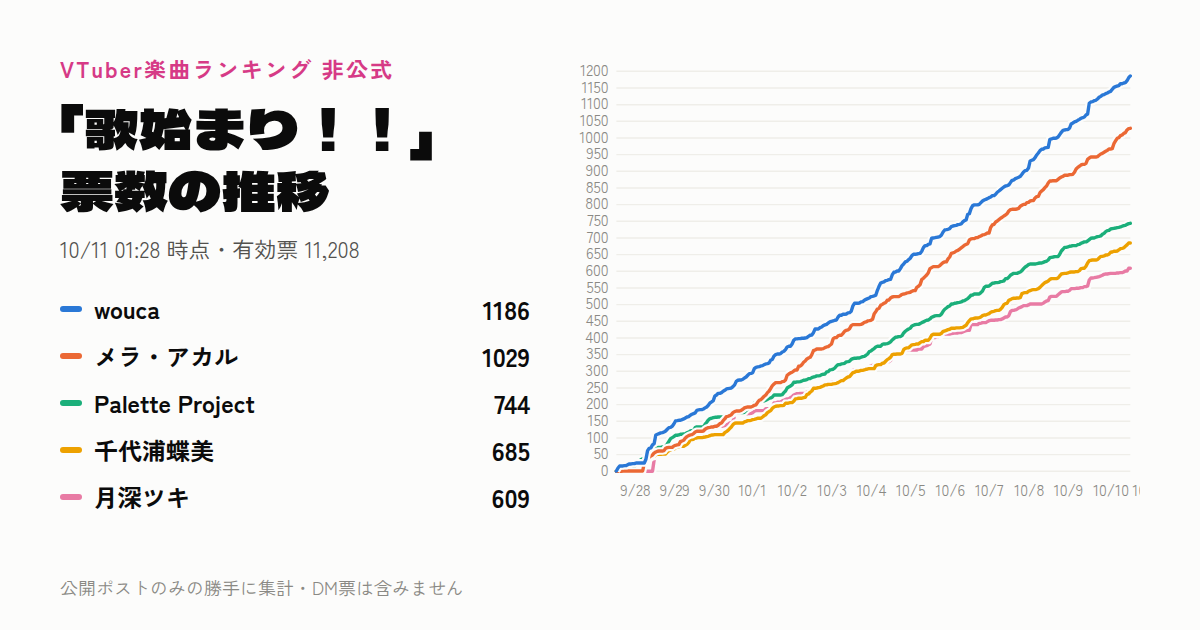
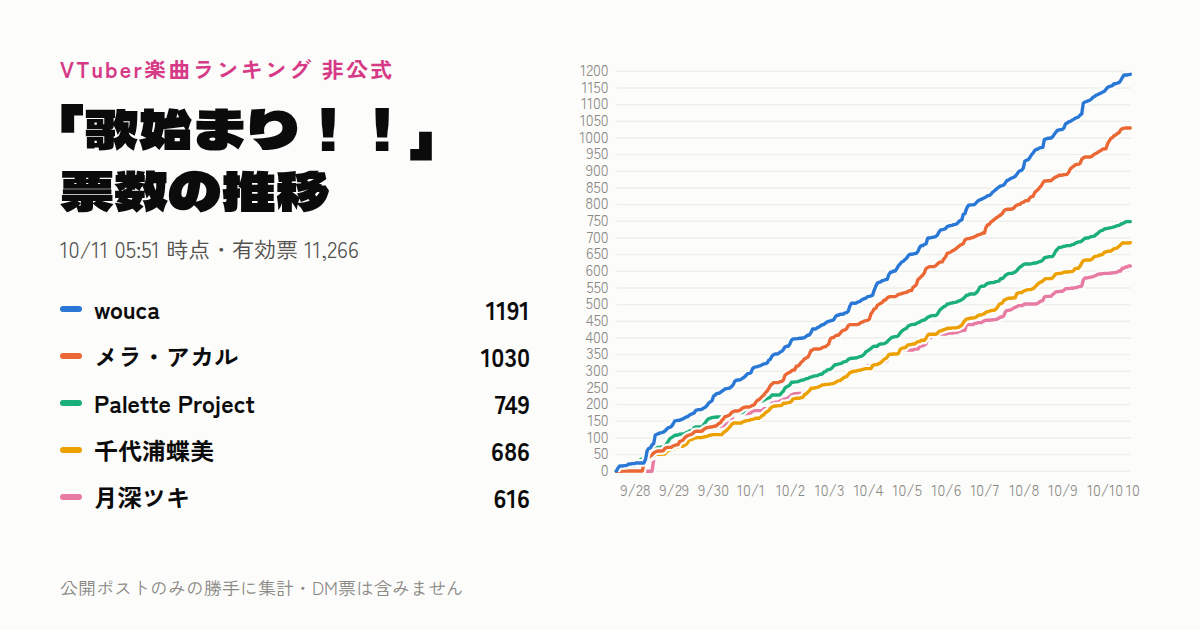
chore: 投票データと推移ページを自動更新

diff --git a/public/trend.html b/public/trend.html
@@ -4,10 +4,10 @@
 <meta name="viewport" content="width=device-width, initial-scale=1, viewport-fit=cover">
 <meta name="description" content="VTuber楽曲ランキング「歌始まり！！」の公開ポスト票を公式ルールで数えた非公式集計。上位曲の票数推移と日別票数。">
 <meta property="og:title" content="「歌始まり！！」票数の推移（非公式）">
-<meta property="og:image" content="https://mc-ranking-utahajimari.trapplejp.workers.dev/trend-og.png?v=10110128">
+<meta property="og:image" content="https://mc-ranking-utahajimari.trapplejp.workers.dev/trend-og.png?v=10110551">
 <meta property="og:url" content="https://mc-ranking-utahajimari.trapplejp.workers.dev/trend">
 <meta property="og:type" content="website">
-<meta property="og:description" content="10/11 01:28時点・公開ポストのみの勝手に集計。上位曲の票数推移と日別票数。">
+<meta property="og:description" content="10/11 05:51時点・公開ポストのみの勝手に集計。上位曲の票数推移と日別票数。">
 <meta name="twitter:card" content="summary_large_image">
 <style>body{margin:0}</style>
 <title>歌始まり 票数推移</title>
@@ -101,7 +101,7 @@ td .sw { display: inline-block; width: 10px; height: 3px; border-radius: 2px; ma
 </div>
 
 <script>
-const D = {"hours": ["2026-09-28T00:00", "2026-09-28T01:00", "2026-09-28T02:00", "2026-09-28T03:00", "2026-09-28T04:00", "2026-09-28T05:00", "2026-09-28T06:00", "2026-09-28T07:00", "2026-09-28T08:00", "2026-09-28T09:00", "2026-09-28T10:00", "2026-09-28T11:00", "2026-09-28T12:00", "2026-09-28T13:00", "2026-09-28T14:00", "2026-09-28T15:00", "2026-09-28T16:00", "2026-09-28T17:00", "2026-09-28T18:00", "2026-09-28T19:00", "2026-09-28T20:00", "2026-09-28T21:00", "2026-09-28T22:00", "2026-09-28T23:00", "2026-09-29T00:00", "2026-09-29T01:00", "2026-09-29T02:00", "2026-09-29T03:00", "2026-09-29T04:00", "2026-09-29T05:00", "2026-09-29T06:00", "2026-09-29T07:00", "2026-09-29T08:00", "2026-09-29T09:00", "2026-09-29T10:00", "2026-09-29T11:00", "2026-09-29T12:00", "2026-09-29T13:00", "2026-09-29T14:00", "2026-09-29T15:00", "2026-09-29T16:00", "2026-09-29T17:00", "2026-09-29T18:00", "2026-09-29T19:00", "2026-09-29T20:00", "2026-09-29T21:00", "2026-09-29T22:00", "2026-09-29T23:00", "2026-09-30T00:00", "2026-09-30T01:00", "2026-09-30T02:00", "2026-09-30T03:00", "2026-09-30T04:00", "2026-09-30T05:00", "2026-09-30T06:00", "2026-09-30T07:00", "2026-09-30T08:00", "2026-09-30T09:00", "2026-09-30T10:00", "2026-09-30T11:00", "2026-09-30T12:00", "2026-09-30T13:00", "2026-09-30T14:00", "2026-09-30T15:00", "2026-09-30T16:00", "2026-09-30T17:00", "2026-09-30T18:00", "2026-09-30T19:00", "2026-09-30T20:00", "2026-09-30T21:00", "2026-09-30T22:00", "2026-09-30T23:00", "2026-10-01T00:00", "2026-10-01T01:00", "2026-10-01T02:00", "2026-10-01T03:00", "2026-10-01T04:00", "2026-10-01T05:00", "2026-10-01T06:00", "2026-10-01T07:00", "2026-10-01T08:00", "2026-10-01T09:00", "2026-10-01T10:00", "2026-10-01T11:00", "2026-10-01T12:00", "2026-10-01T13:00", "2026-10-01T14:00", "2026-10-01T15:00", "2026-10-01T16:00", "2026-10-01T17:00", "2026-10-01T18:00", "2026-10-01T19:00", "2026-10-01T20:00", "2026-10-01T21:00", "2026-10-01T22:00", "2026-10-01T23:00", "2026-10-02T00:00", "2026-10-02T01:00", "2026-10-02T02:00", "2026-10-02T03:00", "2026-10-02T04:00", "2026-10-02T05:00", "2026-10-02T06:00", "2026-10-02T07:00", "2026-10-02T08:00", "2026-10-02T09:00", "2026-10-02T10:00", "2026-10-02T11:00", "2026-10-02T12:00", "2026-10-02T13:00", "2026-10-02T14:00", "2026-10-02T15:00", "2026-10-02T16:00", "2026-10-02T17:00", "2026-10-02T18:00", "2026-10-02T19:00", "2026-10-02T20:00", "2026-10-02T21:00", "2026-10-02T22:00", "2026-10-02T23:00", "2026-10-03T00:00", "2026-10-03T01:00", "2026-10-03T02:00", "2026-10-03T03:00", "2026-10-03T04:00", "2026-10-03T05:00", "2026-10-03T06:00", "2026-10-03T07:00", "2026-10-03T08:00", "2026-10-03T09:00", "2026-10-03T10:00", "2026-10-03T11:00", "2026-10-03T12:00", "2026-10-03T13:00", "2026-10-03T14:00", "2026-10-03T15:00", "2026-10-03T16:00", "2026-10-03T17:00", "2026-10-03T18:00", "2026-10-03T19:00", "2026-10-03T20:00", "2026-10-03T21:00", "2026-10-03T22:00", "2026-10-03T23:00", "2026-10-04T00:00", "2026-10-04T01:00", "2026-10-04T02:00", "2026-10-04T03:00", "2026-10-04T04:00", "2026-10-04T05:00", "2026-10-04T06:00", "2026-10-04T07:00", "2026-10-04T08:00", "2026-10-04T09:00", "2026-10-04T10:00", "2026-10-04T11:00", "2026-10-04T12:00", "2026-10-04T13:00", "2026-10-04T14:00", "2026-10-04T15:00", "2026-10-04T16:00", "2026-10-04T17:00", "2026-10-04T18:00", "2026-10-04T19:00", "2026-10-04T20:00", "2026-10-04T21:00", "2026-10-04T22:00", "2026-10-04T23:00", "2026-10-05T00:00", "2026-10-05T01:00", "2026-10-05T02:00", "2026-10-05T03:00", "2026-10-05T04:00", "2026-10-05T05:00", "2026-10-05T06:00", "2026-10-05T07:00", "2026-10-05T08:00", "2026-10-05T09:00", "2026-10-05T10:00", "2026-10-05T11:00", "2026-10-05T12:00", "2026-10-05T13:00", "2026-10-05T14:00", "2026-10-05T15:00", "2026-10-05T16:00", "2026-10-05T17:00", "2026-10-05T18:00", "2026-10-05T19:00", "2026-10-05T20:00", "2026-10-05T21:00", "2026-10-05T22:00", "2026-10-05T23:00", "2026-10-06T00:00", "2026-10-06T01:00", "2026-10-06T02:00", "2026-10-06T03:00", "2026-10-06T04:00", "2026-10-06T05:00", "2026-10-06T06:00", "2026-10-06T07:00", "2026-10-06T08:00", "2026-10-06T09:00", "2026-10-06T10:00", "2026-10-06T11:00", "2026-10-06T12:00", "2026-10-06T13:00", "2026-10-06T14:00", "2026-10-06T15:00", "2026-10-06T16:00", "2026-10-06T17:00", "2026-10-06T18:00", "2026-10-06T19:00", "2026-10-06T20:00", "2026-10-06T21:00", "2026-10-06T22:00", "2026-10-06T23:00", "2026-10-07T00:00", "2026-10-07T01:00", "2026-10-07T02:00", "2026-10-07T03:00", "2026-10-07T04:00", "2026-10-07T05:00", "2026-10-07T06:00", "2026-10-07T07:00", "2026-10-07T08:00", "2026-10-07T09:00", "2026-10-07T10:00", "2026-10-07T11:00", "2026-10-07T12:00", "2026-10-07T13:00", "2026-10-07T14:00", "2026-10-07T15:00", "2026-10-07T16:00", "2026-10-07T17:00", "2026-10-07T18:00", "2026-10-07T19:00", "2026-10-07T20:00", "2026-10-07T21:00", "2026-10-07T22:00", "2026-10-07T23:00", "2026-10-08T00:00", "2026-10-08T01:00", "2026-10-08T02:00", "2026-10-08T03:00", "2026-10-08T04:00", "2026-10-08T05:00", "2026-10-08T06:00", "2026-10-08T07:00", "2026-10-08T08:00", "2026-10-08T09:00", "2026-10-08T10:00", "2026-10-08T11:00", "2026-10-08T12:00", "2026-10-08T13:00", "2026-10-08T14:00", "2026-10-08T15:00", "2026-10-08T16:00", "2026-10-08T17:00", "2026-10-08T18:00", "2026-10-08T19:00", "2026-10-08T20:00", "2026-10-08T21:00", "2026-10-08T22:00", "2026-10-08T23:00", "2026-10-09T00:00", "2026-10-09T01:00", "2026-10-09T02:00", "2026-10-09T03:00", "2026-10-09T04:00", "2026-10-09T05:00", "2026-10-09T06:00", "2026-10-09T07:00", "2026-10-09T08:00", "2026-10-09T09:00", "2026-10-09T10:00", "2026-10-09T11:00", "2026-10-09T12:00", "2026-10-09T13:00", "2026-10-09T14:00", "2026-10-09T15:00", "2026-10-09T16:00", "2026-10-09T17:00", "2026-10-09T18:00", "2026-10-09T19:00", "2026-10-09T20:00", "2026-10-09T21:00", "2026-10-09T22:00", "2026-10-09T23:00", "2026-10-10T00:00", "2026-10-10T01:00", "2026-10-10T02:00", "2026-10-10T03:00", "2026-10-10T04:00", "2026-10-10T05:00", "2026-10-10T06:00", "2026-10-10T07:00", "2026-10-10T08:00", "2026-10-10T09:00", "2026-10-10T10:00", "2026-10-10T11:00", "2026-10-10T12:00", "2026-10-10T13:00", "2026-10-10T14:00", "2026-10-10T15:00", "2026-10-10T16:00", "2026-10-10T17:00", "2026-10-10T18:00", "2026-10-10T19:00", "2026-10-10T20:00", "2026-10-10T21:00", "2026-10-10T22:00", "2026-10-10T23:00", "2026-10-11T00:00", "2026-10-11T01:00"], "series": [{"artist": "wouca", "song": "Romantica", "cum": [1, 10, 16, 16, 16, 17, 17, 20, 22, 22, 23, 23, 25, 25, 25, 25, 25, 25, 36, 62, 69, 70, 79, 83, 109, 111, 113, 115, 116, 118, 121, 126, 131, 132, 135, 142, 151, 152, 153, 153, 155, 157, 160, 163, 164, 168, 171, 173, 175, 183, 184, 185, 185, 187, 190, 193, 198, 205, 208, 212, 226, 229, 234, 234, 236, 240, 243, 247, 248, 249, 250, 254, 259, 270, 273, 274, 274, 276, 280, 283, 288, 293, 294, 296, 308, 312, 313, 314, 316, 317, 320, 322, 323, 325, 334, 336, 346, 350, 352, 352, 353, 358, 360, 365, 373, 375, 375, 382, 393, 397, 397, 398, 398, 399, 399, 400, 401, 405, 408, 409, 416, 427, 427, 427, 431, 433, 437, 439, 441, 445, 448, 450, 451, 453, 454, 463, 468, 468, 471, 471, 472, 475, 476, 480, 496, 504, 504, 504, 505, 508, 509, 513, 516, 518, 520, 524, 525, 526, 528, 543, 555, 565, 567, 568, 572, 573, 575, 576, 589, 597, 598, 601, 601, 608, 617, 622, 628, 630, 635, 639, 647, 651, 651, 652, 653, 654, 660, 671, 677, 677, 681, 682, 699, 700, 701, 702, 703, 704, 709, 718, 724, 725, 726, 728, 734, 736, 737, 738, 740, 741, 742, 748, 752, 754, 771, 773, 788, 797, 799, 799, 799, 801, 806, 811, 814, 816, 818, 821, 823, 827, 827, 831, 837, 841, 845, 849, 853, 856, 857, 859, 866, 873, 874, 878, 880, 882, 885, 891, 898, 902, 903, 910, 931, 933, 935, 941, 949, 955, 962, 966, 967, 970, 971, 972, 996, 997, 999, 999, 1000, 1003, 1010, 1017, 1023, 1024, 1025, 1025, 1030, 1042, 1045, 1048, 1050, 1053, 1056, 1059, 1061, 1063, 1069, 1072, 1104, 1108, 1109, 1112, 1113, 1117, 1122, 1125, 1129, 1130, 1133, 1135, 1138, 1140, 1146, 1152, 1154, 1156, 1157, 1163, 1163, 1165, 1166, 1172, 1181, 1186]}, {"artist": "メラ・アカル", "song": "僕とあなたと", "cum": [0, 0, 0, 0, 1, 1, 1, 1, 1, 1, 1, 1, 1, 1, 1, 1, 1, 24, 32, 39, 42, 46, 49, 55, 58, 60, 61, 61, 61, 62, 69, 71, 72, 72, 72, 76, 78, 79, 80, 89, 91, 93, 100, 104, 107, 109, 110, 113, 118, 120, 120, 120, 120, 121, 126, 129, 131, 132, 133, 133, 135, 135, 138, 143, 145, 152, 157, 164, 165, 167, 170, 176, 179, 181, 181, 181, 183, 186, 190, 192, 193, 193, 193, 195, 198, 199, 207, 213, 215, 220, 225, 229, 236, 241, 249, 257, 262, 266, 266, 266, 266, 269, 270, 274, 288, 292, 295, 297, 301, 304, 304, 315, 316, 320, 327, 331, 337, 340, 342, 350, 362, 364, 367, 367, 367, 367, 368, 371, 373, 374, 378, 382, 398, 401, 401, 406, 408, 408, 414, 420, 423, 424, 428, 437, 440, 440, 440, 440, 440, 441, 443, 447, 448, 451, 452, 453, 456, 472, 479, 487, 489, 498, 501, 504, 506, 513, 514, 520, 523, 524, 524, 524, 524, 527, 531, 532, 533, 535, 536, 537, 540, 542, 542, 552, 555, 560, 575, 579, 584, 589, 596, 608, 611, 614, 614, 614, 614, 617, 622, 626, 628, 628, 637, 643, 654, 655, 657, 661, 663, 666, 670, 674, 678, 681, 683, 694, 697, 698, 698, 701, 701, 704, 706, 709, 710, 712, 715, 715, 732, 739, 741, 748, 751, 755, 759, 762, 766, 769, 773, 781, 785, 786, 786, 786, 787, 789, 795, 798, 801, 801, 806, 807, 811, 812, 812, 820, 824, 825, 836, 841, 845, 851, 856, 865, 871, 871, 872, 872, 872, 876, 880, 883, 885, 888, 888, 888, 890, 890, 891, 897, 907, 912, 915, 919, 921, 921, 924, 936, 940, 943, 943, 943, 943, 944, 948, 952, 954, 957, 960, 963, 967, 967, 968, 983, 991, 999, 1001, 1007, 1009, 1014, 1016, 1024, 1028, 1029]}, {"artist": "Palette Project", "song": "ギミラビ", "cum": [0, 1, 1, 1, 1, 1, 1, 1, 1, 2, 3, 14, 24, 30, 31, 35, 37, 40, 44, 48, 53, 58, 60, 62, 67, 72, 72, 72, 73, 73, 75, 82, 90, 98, 101, 104, 108, 108, 109, 111, 111, 112, 112, 116, 117, 121, 122, 123, 131, 133, 133, 133, 133, 133, 141, 147, 154, 158, 159, 161, 162, 162, 163, 163, 163, 163, 166, 167, 169, 171, 171, 173, 175, 176, 176, 176, 176, 176, 177, 183, 187, 190, 195, 200, 205, 205, 208, 209, 210, 210, 211, 213, 216, 219, 220, 223, 229, 229, 229, 229, 229, 230, 236, 241, 250, 253, 256, 259, 267, 267, 268, 268, 269, 271, 273, 274, 275, 278, 278, 281, 283, 284, 286, 286, 287, 290, 291, 292, 298, 299, 304, 305, 306, 310, 316, 320, 320, 322, 323, 324, 328, 329, 330, 336, 338, 339, 339, 340, 340, 342, 344, 345, 348, 352, 359, 361, 365, 368, 373, 375, 375, 375, 381, 382, 382, 383, 385, 388, 394, 398, 402, 403, 404, 404, 407, 415, 420, 424, 427, 429, 436, 438, 440, 441, 441, 443, 446, 448, 451, 453, 454, 457, 462, 464, 466, 467, 467, 467, 472, 480, 486, 490, 494, 496, 502, 502, 504, 505, 506, 507, 508, 511, 512, 515, 518, 523, 528, 529, 532, 532, 532, 532, 536, 541, 551, 555, 555, 556, 560, 564, 565, 566, 566, 567, 569, 570, 571, 578, 578, 582, 588, 591, 594, 594, 594, 596, 598, 602, 608, 613, 616, 620, 622, 622, 622, 622, 623, 624, 625, 625, 627, 629, 630, 634, 641, 642, 643, 644, 644, 644, 651, 661, 666, 672, 672, 673, 675, 676, 677, 677, 677, 680, 681, 684, 686, 688, 688, 691, 695, 699, 700, 700, 702, 704, 705, 706, 711, 714, 719, 722, 723, 727, 728, 729, 730, 731, 732, 733, 735, 737, 738, 741, 743, 744]}, {"artist": "千代浦蝶美", "song": "Butterfly Dream", "cum": [3, 4, 4, 4, 4, 4, 4, 6, 13, 15, 16, 19, 29, 29, 29, 29, 30, 32, 32, 38, 39, 41, 44, 45, 50, 51, 51, 51, 52, 52, 52, 58, 62, 64, 66, 66, 71, 72, 73, 75, 75, 75, 78, 81, 86, 95, 95, 96, 100, 100, 101, 101, 101, 102, 103, 104, 105, 107, 109, 109, 110, 110, 110, 110, 110, 110, 116, 119, 123, 128, 133, 140, 144, 145, 145, 145, 145, 145, 148, 150, 152, 152, 153, 155, 156, 157, 159, 159, 159, 163, 167, 170, 176, 179, 182, 189, 193, 195, 196, 196, 197, 197, 198, 204, 204, 205, 206, 206, 210, 217, 218, 219, 219, 219, 221, 222, 230, 232, 237, 241, 249, 249, 250, 251, 252, 254, 256, 259, 259, 261, 261, 261, 262, 263, 264, 266, 269, 272, 272, 276, 280, 283, 284, 290, 296, 297, 300, 300, 301, 303, 303, 304, 306, 307, 308, 308, 308, 308, 317, 319, 320, 320, 324, 325, 330, 335, 338, 342, 350, 351, 351, 352, 352, 352, 354, 365, 369, 370, 370, 375, 379, 380, 381, 382, 382, 386, 389, 389, 393, 393, 393, 399, 408, 411, 411, 411, 411, 411, 414, 420, 421, 423, 425, 426, 429, 429, 429, 430, 430, 430, 431, 432, 435, 438, 446, 452, 457, 457, 459, 460, 460, 461, 463, 467, 469, 469, 471, 473, 477, 479, 480, 482, 483, 483, 486, 492, 500, 503, 504, 513, 515, 518, 519, 519, 520, 520, 521, 533, 535, 536, 536, 540, 542, 544, 545, 545, 546, 548, 552, 557, 562, 566, 568, 571, 576, 578, 578, 578, 578, 580, 586, 592, 593, 594, 594, 595, 597, 598, 598, 598, 599, 599, 602, 608, 609, 609, 615, 625, 632, 633, 634, 634, 634, 635, 640, 645, 645, 646, 649, 649, 651, 657, 658, 660, 660, 661, 664, 668, 669, 670, 675, 679, 685, 685]}, {"artist": "月深ツキ", "song": "月祀り", "cum": [0, 0, 0, 0, 0, 0, 0, 0, 0, 0, 0, 0, 0, 0, 0, 0, 0, 0, 0, 0, 0, 0, 0, 34, 52, 56, 57, 58, 60, 60, 61, 67, 67, 67, 72, 75, 77, 78, 80, 80, 80, 81, 83, 84, 85, 87, 91, 92, 117, 119, 122, 122, 123, 123, 124, 125, 125, 126, 128, 129, 133, 134, 135, 135, 135, 136, 137, 139, 141, 145, 146, 148, 170, 171, 171, 171, 172, 172, 172, 172, 173, 173, 174, 176, 180, 182, 182, 182, 182, 182, 183, 188, 188, 188, 189, 193, 205, 205, 207, 207, 208, 211, 214, 216, 217, 217, 221, 224, 229, 231, 233, 233, 234, 234, 234, 234, 238, 238, 239, 241, 251, 253, 253, 254, 254, 255, 258, 260, 262, 262, 264, 267, 268, 268, 268, 271, 273, 273, 274, 274, 278, 280, 282, 285, 303, 304, 305, 305, 305, 306, 306, 306, 311, 312, 314, 316, 318, 319, 321, 321, 322, 322, 322, 323, 326, 327, 329, 332, 346, 352, 352, 353, 353, 354, 357, 362, 364, 364, 364, 364, 364, 364, 364, 364, 367, 367, 367, 374, 376, 377, 379, 382, 400, 401, 401, 404, 404, 406, 410, 412, 412, 412, 412, 412, 413, 414, 415, 415, 415, 416, 416, 418, 420, 422, 423, 423, 440, 440, 440, 440, 440, 444, 444, 446, 446, 446, 449, 452, 453, 453, 453, 454, 454, 455, 455, 457, 460, 463, 463, 467, 479, 483, 483, 484, 486, 490, 492, 494, 497, 497, 497, 499, 502, 502, 502, 502, 502, 502, 502, 502, 504, 508, 511, 512, 523, 525, 525, 525, 525, 530, 534, 538, 539, 539, 540, 540, 543, 548, 548, 548, 549, 549, 550, 551, 551, 554, 554, 556, 574, 580, 580, 581, 582, 583, 584, 586, 588, 591, 592, 592, 593, 594, 594, 594, 594, 595, 595, 596, 596, 598, 601, 601, 609, 609]}, {"artist": "ときのそら", "song": "決意のソラへ", "cum": [1, 3, 3, 3, 4, 5, 9, 11, 13, 13, 14, 14, 17, 18, 19, 19, 19, 19, 21, 22, 23, 26, 26, 29, 30, 30, 31, 31, 32, 34, 37, 41, 47, 48, 51, 51, 52, 52, 52, 54, 55, 55, 56, 57, 58, 60, 62, 64, 65, 66, 66, 66, 68, 70, 72, 76, 81, 81, 83, 83, 84, 85, 85, 85, 85, 85, 86, 87, 87, 91, 93, 97, 98, 98, 98, 98, 100, 102, 104, 109, 109, 109, 111, 113, 116, 117, 119, 119, 119, 119, 121, 122, 123, 125, 126, 127, 127, 128, 128, 128, 129, 130, 135, 140, 141, 144, 147, 147, 148, 149, 149, 149, 151, 154, 154, 155, 157, 159, 160, 162, 162, 163, 163, 163, 165, 167, 168, 171, 172, 175, 177, 179, 180, 182, 184, 185, 185, 185, 186, 187, 188, 192, 192, 196, 196, 198, 198, 198, 199, 201, 202, 204, 207, 207, 207, 209, 209, 211, 213, 213, 213, 216, 218, 221, 221, 221, 224, 225, 227, 228, 228, 228, 230, 233, 239, 245, 247, 248, 250, 250, 252, 252, 252, 252, 252, 252, 254, 256, 260, 264, 265, 266, 266, 267, 267, 267, 268, 270, 272, 282, 284, 284, 284, 284, 286, 286, 288, 288, 289, 289, 291, 292, 293, 294, 296, 298, 299, 299, 299, 300, 300, 302, 302, 312, 314, 315, 318, 318, 320, 321, 323, 323, 323, 323, 326, 326, 329, 331, 333, 336, 338, 338, 339, 339, 341, 343, 344, 351, 355, 355, 357, 360, 360, 360, 361, 361, 361, 361, 363, 363, 364, 366, 366, 368, 368, 368, 369, 369, 371, 372, 376, 386, 390, 391, 391, 391, 394, 396, 397, 397, 397, 397, 399, 400, 400, 401, 402, 404, 405, 406, 406, 407, 408, 410, 411, 413, 414, 415, 422, 425, 425, 425, 425, 425, 426, 427, 428, 428, 430, 430, 433, 438, 438, 439]}, {"artist": "陽月るるふ", "song": "アヲイチズ", "cum": [0, 14, 14, 16, 16, 16, 18, 19, 21, 21, 21, 21, 21, 21, 21, 22, 22, 24, 25, 28, 29, 30, 31, 32, 40, 42, 43, 43, 43, 44, 48, 48, 48, 48, 48, 48, 48, 49, 49, 49, 50, 52, 52, 61, 61, 61, 62, 63, 70, 71, 71, 72, 72, 73, 74, 78, 78, 78, 78, 79, 83, 83, 83, 84, 85, 85, 86, 88, 88, 90, 91, 96, 101, 106, 107, 108, 110, 110, 110, 112, 113, 113, 113, 113, 115, 115, 115, 117, 118, 118, 118, 119, 119, 120, 124, 126, 131, 134, 135, 135, 136, 138, 140, 141, 143, 143, 145, 145, 150, 150, 150, 151, 151, 151, 151, 151, 151, 151, 154, 156, 161, 161, 163, 164, 164, 164, 164, 166, 169, 169, 169, 173, 175, 175, 177, 177, 177, 177, 179, 179, 179, 179, 183, 184, 186, 188, 189, 190, 191, 192, 192, 194, 195, 196, 197, 198, 198, 202, 203, 203, 204, 204, 205, 206, 206, 209, 214, 216, 220, 226, 226, 226, 226, 226, 228, 229, 232, 234, 234, 235, 236, 236, 236, 236, 236, 239, 239, 239, 239, 244, 252, 254, 261, 263, 263, 265, 266, 268, 269, 270, 270, 270, 270, 271, 272, 272, 273, 273, 273, 275, 276, 277, 278, 280, 282, 284, 287, 292, 293, 294, 295, 296, 298, 299, 300, 302, 303, 303, 304, 304, 304, 304, 305, 307, 307, 311, 312, 313, 314, 314, 319, 319, 321, 321, 323, 324, 324, 328, 333, 333, 334, 334, 336, 336, 336, 336, 337, 338, 338, 339, 339, 341, 344, 345, 347, 347, 350, 352, 352, 354, 354, 355, 358, 359, 360, 360, 362, 364, 364, 364, 364, 364, 364, 365, 366, 369, 372, 375, 376, 376, 377, 379, 381, 385, 385, 386, 387, 388, 388, 389, 391, 393, 394, 399, 399, 399, 400, 400, 401, 403, 406, 407, 412, 414]}, {"artist": "LiLiN", "song": "readiness", "cum": [0, 0, 0, 0, 0, 0, 0, 0, 0, 0, 0, 0, 0, 0, 0, 0, 0, 0, 0, 0, 0, 1, 4, 6, 6, 6, 9, 9, 9, 9, 12, 12, 12, 12, 12, 12, 13, 14, 15, 15, 15, 15, 17, 19, 19, 19, 20, 20, 20, 21, 21, 21, 21, 21, 24, 26, 27, 27, 27, 27, 28, 28, 29, 29, 29, 29, 29, 29, 29, 30, 32, 39, 40, 40, 40, 40, 40, 41, 44, 44, 44, 44, 44, 44, 46, 46, 47, 47, 47, 47, 47, 47, 47, 47, 47, 50, 51, 53, 53, 53, 53, 53, 56, 56, 57, 60, 63, 63, 67, 67, 67, 67, 67, 67, 70, 70, 72, 73, 76, 79, 79, 86, 86, 86, 86, 86, 88, 89, 90, 92, 98, 101, 104, 105, 105, 105, 105, 105, 106, 106, 113, 120, 121, 126, 126, 129, 129, 129, 129, 129, 130, 133, 133, 133, 133, 133, 134, 136, 139, 140, 140, 143, 143, 147, 151, 152, 153, 160, 160, 162, 163, 163, 163, 163, 166, 166, 167, 167, 167, 167, 170, 170, 170, 170, 170, 170, 174, 177, 177, 177, 178, 179, 179, 182, 182, 182, 182, 184, 185, 185, 187, 187, 187, 187, 188, 188, 193, 194, 197, 201, 203, 205, 206, 207, 209, 211, 211, 216, 216, 216, 216, 216, 219, 220, 220, 221, 221, 222, 225, 227, 229, 231, 235, 236, 237, 238, 241, 246, 251, 259, 264, 270, 270, 270, 270, 270, 273, 274, 276, 278, 278, 285, 287, 289, 289, 291, 293, 293, 294, 294, 294, 297, 298, 311, 315, 316, 316, 316, 316, 316, 317, 318, 320, 321, 321, 321, 322, 322, 324, 330, 333, 337, 338, 338, 342, 343, 352, 359, 364, 365, 365, 365, 365, 365, 368, 368, 368, 369, 369, 372, 376, 380, 386, 386, 389, 389, 390, 390, 397, 400, 405, 406, 411, 411]}], "days": ["9/28", "9/29", "9/30", "10/1", "10/2", "10/3", "10/4", "10/5", "10/6", "10/7", "10/8", "10/9", "10/10", "10/11"], "table": [{"rank": 1, "artist": "wouca", "song": "Romantica", "total": 1186, "days": [83, 90, 81, 82, 73, 71, 96, 106, 91, 86, 113, 100, 100, 14]}, {"rank": 2, "artist": "メラ・アカル", "song": "僕とあなたと", "total": 1029, "days": [55, 58, 63, 81, 93, 87, 83, 88, 86, 87, 84, 71, 88, 5]}, {"rank": 3, "artist": "Palette Project", "song": "ギミラビ", "total": 744, "days": [62, 61, 50, 50, 58, 55, 52, 69, 66, 59, 52, 57, 50, 3]}, {"rank": 4, "artist": "千代浦蝶美", "song": "Butterfly Dream", "total": 685, "days": [45, 51, 44, 49, 52, 49, 52, 57, 53, 61, 58, 54, 54, 6]}, {"rank": 5, "artist": "月深ツキ", "song": "月祀り", "total": 609, "days": [34, 58, 56, 45, 48, 44, 47, 50, 41, 44, 45, 44, 45, 8]}, {"rank": 6, "artist": "ときのそら", "song": "決意のソラへ", "total": 439, "days": [29, 35, 33, 30, 35, 34, 29, 41, 32, 38, 32, 36, 34, 1]}, {"rank": 7, "artist": "陽月るるふ", "song": "アヲイチズ", "total": 414, "days": [32, 31, 33, 30, 30, 28, 32, 38, 30, 30, 31, 30, 32, 7]}, {"rank": 8, "artist": "LiLiN", "song": "readiness", "total": 411, "days": [6, 14, 19, 11, 29, 47, 34, 19, 32, 48, 52, 48, 47, 5]}, {"rank": 9, "artist": "我部りえる", "song": "きみはわたしの", "total": 365, "days": [16, 18, 30, 29, 28, 35, 23, 29, 28, 30, 34, 34, 30, 1]}, {"rank": 10, "artist": "凪乃ましろ", "song": "波音のプレリュード", "total": 350, "days": [32, 26, 23, 21, 25, 27, 19, 30, 28, 35, 27, 28, 27, 2]}, {"rank": 11, "artist": "すとらてぃあ", "song": "Last Tear", "total": 306, "days": [17, 28, 28, 21, 22, 19, 19, 30, 29, 26, 19, 25, 20, 3]}, {"rank": 12, "artist": "ふぇりしあ", "song": "押し花に、愛を込めて", "total": 252, "days": [10, 28, 17, 26, 14, 26, 24, 25, 21, 12, 15, 12, 18, 4]}, {"rank": 13, "artist": "夢羽ヒメ", "song": "彩光 -イリザシオン-", "total": 230, "days": [20, 21, 19, 21, 15, 18, 15, 22, 14, 16, 16, 16, 15, 2]}, {"rank": 14, "artist": "茜音カンナ", "song": "VEIL", "total": 225, "days": [32, 26, 18, 12, 13, 11, 10, 18, 18, 18, 16, 18, 13, 2]}, {"rank": 15, "artist": "みかん先生", "song": "as ü like", "total": 215, "days": [3, 20, 21, 22, 22, 17, 15, 16, 19, 15, 16, 15, 14, 0]}, {"rank": 16, "artist": "ヨノ", "song": "Notes of Color", "total": 210, "days": [18, 26, 22, 19, 16, 17, 17, 11, 16, 13, 12, 10, 10, 3]}, {"rank": 17, "artist": "MEDA", "song": "覚醒.exe", "total": 186, "days": [7, 15, 17, 17, 15, 14, 14, 14, 16, 15, 11, 15, 16, 0]}, {"rank": 18, "artist": "藍海のん、奏みみ", "song": "その手を引いて、その手に引かれて", "total": 175, "days": [0, 5, 13, 15, 17, 18, 14, 17, 14, 15, 11, 16, 16, 4]}, {"rank": 19, "artist": "朝ノ瑠璃", "song": "トモシビライズ", "total": 169, "days": [13, 16, 14, 14, 11, 13, 11, 13, 14, 13, 14, 12, 11, 0]}, {"rank": 20, "artist": "えのぐ", "song": "決戦前夜", "total": 148, "days": [13, 12, 15, 10, 12, 7, 12, 12, 12, 8, 13, 12, 9, 1]}], "asOf": "10/11 01:28", "counted": 11208, "songs": 155, "theme": "歌始まり！！", "deadline": "10/27 23:59"};
+const D = {"hours": ["2026-09-28T00:00", "2026-09-28T01:00", "2026-09-28T02:00", "2026-09-28T03:00", "2026-09-28T04:00", "2026-09-28T05:00", "2026-09-28T06:00", "2026-09-28T07:00", "2026-09-28T08:00", "2026-09-28T09:00", "2026-09-28T10:00", "2026-09-28T11:00", "2026-09-28T12:00", "2026-09-28T13:00", "2026-09-28T14:00", "2026-09-28T15:00", "2026-09-28T16:00", "2026-09-28T17:00", "2026-09-28T18:00", "2026-09-28T19:00", "2026-09-28T20:00", "2026-09-28T21:00", "2026-09-28T22:00", "2026-09-28T23:00", "2026-09-29T00:00", "2026-09-29T01:00", "2026-09-29T02:00", "2026-09-29T03:00", "2026-09-29T04:00", "2026-09-29T05:00", "2026-09-29T06:00", "2026-09-29T07:00", "2026-09-29T08:00", "2026-09-29T09:00", "2026-09-29T10:00", "2026-09-29T11:00", "2026-09-29T12:00", "2026-09-29T13:00", "2026-09-29T14:00", "2026-09-29T15:00", "2026-09-29T16:00", "2026-09-29T17:00", "2026-09-29T18:00", "2026-09-29T19:00", "2026-09-29T20:00", "2026-09-29T21:00", "2026-09-29T22:00", "2026-09-29T23:00", "2026-09-30T00:00", "2026-09-30T01:00", "2026-09-30T02:00", "2026-09-30T03:00", "2026-09-30T04:00", "2026-09-30T05:00", "2026-09-30T06:00", "2026-09-30T07:00", "2026-09-30T08:00", "2026-09-30T09:00", "2026-09-30T10:00", "2026-09-30T11:00", "2026-09-30T12:00", "2026-09-30T13:00", "2026-09-30T14:00", "2026-09-30T15:00", "2026-09-30T16:00", "2026-09-30T17:00", "2026-09-30T18:00", "2026-09-30T19:00", "2026-09-30T20:00", "2026-09-30T21:00", "2026-09-30T22:00", "2026-09-30T23:00", "2026-10-01T00:00", "2026-10-01T01:00", "2026-10-01T02:00", "2026-10-01T03:00", "2026-10-01T04:00", "2026-10-01T05:00", "2026-10-01T06:00", "2026-10-01T07:00", "2026-10-01T08:00", "2026-10-01T09:00", "2026-10-01T10:00", "2026-10-01T11:00", "2026-10-01T12:00", "2026-10-01T13:00", "2026-10-01T14:00", "2026-10-01T15:00", "2026-10-01T16:00", "2026-10-01T17:00", "2026-10-01T18:00", "2026-10-01T19:00", "2026-10-01T20:00", "2026-10-01T21:00", "2026-10-01T22:00", "2026-10-01T23:00", "2026-10-02T00:00", "2026-10-02T01:00", "2026-10-02T02:00", "2026-10-02T03:00", "2026-10-02T04:00", "2026-10-02T05:00", "2026-10-02T06:00", "2026-10-02T07:00", "2026-10-02T08:00", "2026-10-02T09:00", "2026-10-02T10:00", "2026-10-02T11:00", "2026-10-02T12:00", "2026-10-02T13:00", "2026-10-02T14:00", "2026-10-02T15:00", "2026-10-02T16:00", "2026-10-02T17:00", "2026-10-02T18:00", "2026-10-02T19:00", "2026-10-02T20:00", "2026-10-02T21:00", "2026-10-02T22:00", "2026-10-02T23:00", "2026-10-03T00:00", "2026-10-03T01:00", "2026-10-03T02:00", "2026-10-03T03:00", "2026-10-03T04:00", "2026-10-03T05:00", "2026-10-03T06:00", "2026-10-03T07:00", "2026-10-03T08:00", "2026-10-03T09:00", "2026-10-03T10:00", "2026-10-03T11:00", "2026-10-03T12:00", "2026-10-03T13:00", "2026-10-03T14:00", "2026-10-03T15:00", "2026-10-03T16:00", "2026-10-03T17:00", "2026-10-03T18:00", "2026-10-03T19:00", "2026-10-03T20:00", "2026-10-03T21:00", "2026-10-03T22:00", "2026-10-03T23:00", "2026-10-04T00:00", "2026-10-04T01:00", "2026-10-04T02:00", "2026-10-04T03:00", "2026-10-04T04:00", "2026-10-04T05:00", "2026-10-04T06:00", "2026-10-04T07:00", "2026-10-04T08:00", "2026-10-04T09:00", "2026-10-04T10:00", "2026-10-04T11:00", "2026-10-04T12:00", "2026-10-04T13:00", "2026-10-04T14:00", "2026-10-04T15:00", "2026-10-04T16:00", "2026-10-04T17:00", "2026-10-04T18:00", "2026-10-04T19:00", "2026-10-04T20:00", "2026-10-04T21:00", "2026-10-04T22:00", "2026-10-04T23:00", "2026-10-05T00:00", "2026-10-05T01:00", "2026-10-05T02:00", "2026-10-05T03:00", "2026-10-05T04:00", "2026-10-05T05:00", "2026-10-05T06:00", "2026-10-05T07:00", "2026-10-05T08:00", "2026-10-05T09:00", "2026-10-05T10:00", "2026-10-05T11:00", "2026-10-05T12:00", "2026-10-05T13:00", "2026-10-05T14:00", "2026-10-05T15:00", "2026-10-05T16:00", "2026-10-05T17:00", "2026-10-05T18:00", "2026-10-05T19:00", "2026-10-05T20:00", "2026-10-05T21:00", "2026-10-05T22:00", "2026-10-05T23:00", "2026-10-06T00:00", "2026-10-06T01:00", "2026-10-06T02:00", "2026-10-06T03:00", "2026-10-06T04:00", "2026-10-06T05:00", "2026-10-06T06:00", "2026-10-06T07:00", "2026-10-06T08:00", "2026-10-06T09:00", "2026-10-06T10:00", "2026-10-06T11:00", "2026-10-06T12:00", "2026-10-06T13:00", "2026-10-06T14:00", "2026-10-06T15:00", "2026-10-06T16:00", "2026-10-06T17:00", "2026-10-06T18:00", "2026-10-06T19:00", "2026-10-06T20:00", "2026-10-06T21:00", "2026-10-06T22:00", "2026-10-06T23:00", "2026-10-07T00:00", "2026-10-07T01:00", "2026-10-07T02:00", "2026-10-07T03:00", "2026-10-07T04:00", "2026-10-07T05:00", "2026-10-07T06:00", "2026-10-07T07:00", "2026-10-07T08:00", "2026-10-07T09:00", "2026-10-07T10:00", "2026-10-07T11:00", "2026-10-07T12:00", "2026-10-07T13:00", "2026-10-07T14:00", "2026-10-07T15:00", "2026-10-07T16:00", "2026-10-07T17:00", "2026-10-07T18:00", "2026-10-07T19:00", "2026-10-07T20:00", "2026-10-07T21:00", "2026-10-07T22:00", "2026-10-07T23:00", "2026-10-08T00:00", "2026-10-08T01:00", "2026-10-08T02:00", "2026-10-08T03:00", "2026-10-08T04:00", "2026-10-08T05:00", "2026-10-08T06:00", "2026-10-08T07:00", "2026-10-08T08:00", "2026-10-08T09:00", "2026-10-08T10:00", "2026-10-08T11:00", "2026-10-08T12:00", "2026-10-08T13:00", "2026-10-08T14:00", "2026-10-08T15:00", "2026-10-08T16:00", "2026-10-08T17:00", "2026-10-08T18:00", "2026-10-08T19:00", "2026-10-08T20:00", "2026-10-08T21:00", "2026-10-08T22:00", "2026-10-08T23:00", "2026-10-09T00:00", "2026-10-09T01:00", "2026-10-09T02:00", "2026-10-09T03:00", "2026-10-09T04:00", "2026-10-09T05:00", "2026-10-09T06:00", "2026-10-09T07:00", "2026-10-09T08:00", "2026-10-09T09:00", "2026-10-09T10:00", "2026-10-09T11:00", "2026-10-09T12:00", "2026-10-09T13:00", "2026-10-09T14:00", "2026-10-09T15:00", "2026-10-09T16:00", "2026-10-09T17:00", "2026-10-09T18:00", "2026-10-09T19:00", "2026-10-09T20:00", "2026-10-09T21:00", "2026-10-09T22:00", "2026-10-09T23:00", "2026-10-10T00:00", "2026-10-10T01:00", "2026-10-10T02:00", "2026-10-10T03:00", "2026-10-10T04:00", "2026-10-10T05:00", "2026-10-10T06:00", "2026-10-10T07:00", "2026-10-10T08:00", "2026-10-10T09:00", "2026-10-10T10:00", "2026-10-10T11:00", "2026-10-10T12:00", "2026-10-10T13:00", "2026-10-10T14:00", "2026-10-10T15:00", "2026-10-10T16:00", "2026-10-10T17:00", "2026-10-10T18:00", "2026-10-10T19:00", "2026-10-10T20:00", "2026-10-10T21:00", "2026-10-10T22:00", "2026-10-10T23:00", "2026-10-11T00:00", "2026-10-11T01:00", "2026-10-11T02:00", "2026-10-11T03:00", "2026-10-11T04:00", "2026-10-11T05:00"], "series": [{"artist": "wouca", "song": "Romantica", "cum": [1, 10, 16, 16, 16, 17, 17, 20, 22, 22, 23, 23, 25, 25, 25, 25, 25, 25, 36, 62, 69, 70, 79, 83, 109, 111, 113, 115, 116, 118, 121, 126, 131, 132, 135, 142, 151, 152, 153, 153, 155, 157, 160, 163, 164, 168, 171, 173, 175, 183, 184, 185, 185, 187, 190, 193, 198, 205, 208, 212, 226, 229, 234, 234, 236, 240, 243, 247, 248, 249, 250, 254, 259, 270, 273, 274, 274, 276, 280, 283, 288, 293, 294, 296, 308, 312, 313, 314, 316, 317, 320, 322, 323, 325, 334, 336, 346, 350, 352, 352, 353, 358, 360, 365, 373, 375, 375, 382, 393, 397, 397, 398, 398, 399, 399, 400, 401, 405, 408, 409, 416, 427, 427, 427, 431, 433, 437, 439, 441, 445, 448, 450, 451, 453, 454, 463, 468, 468, 471, 471, 472, 475, 476, 480, 496, 504, 504, 504, 505, 508, 509, 513, 516, 518, 520, 524, 525, 526, 528, 543, 555, 565, 567, 568, 572, 573, 575, 576, 589, 597, 598, 601, 601, 608, 617, 622, 628, 630, 635, 639, 647, 651, 651, 652, 653, 654, 660, 671, 677, 677, 681, 682, 699, 700, 701, 702, 703, 704, 709, 718, 724, 725, 726, 728, 734, 736, 737, 738, 740, 741, 742, 748, 752, 754, 771, 773, 788, 797, 799, 799, 799, 801, 806, 811, 814, 816, 818, 821, 823, 827, 827, 831, 837, 841, 845, 849, 853, 856, 857, 859, 866, 873, 874, 878, 880, 882, 885, 891, 898, 902, 903, 910, 931, 933, 935, 941, 949, 955, 962, 966, 967, 970, 971, 972, 996, 997, 999, 999, 1000, 1003, 1010, 1017, 1023, 1024, 1025, 1025, 1030, 1042, 1045, 1048, 1050, 1053, 1056, 1059, 1061, 1063, 1069, 1072, 1104, 1108, 1109, 1112, 1113, 1117, 1122, 1125, 1129, 1130, 1133, 1135, 1138, 1140, 1146, 1152, 1154, 1156, 1157, 1163, 1163, 1165, 1166, 1172, 1181, 1188, 1189, 1189, 1190, 1191]}, {"artist": "メラ・アカル", "song": "僕とあなたと", "cum": [0, 0, 0, 0, 1, 1, 1, 1, 1, 1, 1, 1, 1, 1, 1, 1, 1, 24, 32, 39, 42, 46, 49, 55, 58, 60, 61, 61, 61, 62, 69, 71, 72, 72, 72, 76, 78, 79, 80, 89, 91, 93, 100, 104, 107, 109, 110, 113, 118, 120, 120, 120, 120, 121, 126, 129, 131, 132, 133, 133, 135, 135, 138, 143, 145, 152, 157, 164, 165, 167, 170, 176, 179, 181, 181, 181, 183, 186, 190, 192, 193, 193, 193, 195, 198, 199, 207, 213, 215, 220, 225, 229, 236, 241, 249, 257, 262, 266, 266, 266, 266, 269, 270, 274, 288, 292, 295, 297, 301, 304, 304, 315, 316, 320, 327, 331, 337, 340, 342, 350, 362, 364, 367, 367, 367, 367, 368, 371, 373, 374, 378, 382, 398, 401, 401, 406, 408, 408, 414, 420, 423, 424, 428, 437, 440, 440, 440, 440, 440, 441, 443, 447, 448, 451, 452, 453, 456, 472, 479, 487, 489, 498, 501, 504, 506, 513, 514, 520, 523, 524, 524, 524, 524, 527, 531, 532, 533, 535, 536, 537, 540, 542, 542, 552, 555, 560, 575, 579, 584, 589, 596, 608, 611, 614, 614, 614, 614, 617, 622, 626, 628, 628, 637, 643, 654, 655, 657, 661, 663, 666, 670, 674, 678, 681, 683, 694, 697, 698, 698, 701, 701, 704, 706, 709, 710, 712, 715, 715, 732, 739, 741, 748, 751, 755, 759, 762, 766, 769, 773, 781, 785, 786, 786, 786, 787, 789, 795, 798, 801, 801, 806, 807, 811, 812, 812, 820, 824, 825, 836, 841, 845, 851, 856, 865, 871, 871, 872, 872, 872, 876, 880, 883, 885, 888, 888, 888, 890, 890, 891, 897, 907, 912, 915, 919, 921, 921, 924, 936, 940, 943, 943, 943, 943, 944, 948, 952, 954, 957, 960, 963, 967, 967, 968, 983, 991, 999, 1001, 1007, 1009, 1014, 1016, 1024, 1028, 1029, 1030, 1030, 1030, 1030]}, {"artist": "Palette Project", "song": "ギミラビ", "cum": [0, 1, 1, 1, 1, 1, 1, 1, 1, 2, 3, 14, 24, 30, 31, 35, 37, 40, 44, 48, 53, 58, 60, 62, 67, 72, 72, 72, 73, 73, 75, 82, 90, 98, 101, 104, 108, 108, 109, 111, 111, 112, 112, 116, 117, 121, 122, 123, 131, 133, 133, 133, 133, 133, 141, 147, 154, 158, 159, 161, 162, 162, 163, 163, 163, 163, 166, 167, 169, 171, 171, 173, 175, 176, 176, 176, 176, 176, 177, 183, 187, 190, 195, 200, 205, 205, 208, 209, 210, 210, 211, 213, 216, 219, 220, 223, 229, 229, 229, 229, 229, 230, 236, 241, 250, 253, 256, 259, 267, 267, 268, 268, 269, 271, 273, 274, 275, 278, 278, 281, 283, 284, 286, 286, 287, 290, 291, 292, 298, 299, 304, 305, 306, 310, 316, 320, 320, 322, 323, 324, 328, 329, 330, 336, 338, 339, 339, 340, 340, 342, 344, 345, 348, 352, 359, 361, 365, 368, 373, 375, 375, 375, 381, 382, 382, 383, 385, 388, 394, 398, 402, 403, 404, 404, 407, 415, 420, 424, 427, 429, 436, 438, 440, 441, 441, 443, 446, 448, 451, 453, 454, 457, 462, 464, 466, 467, 467, 467, 472, 480, 486, 490, 494, 496, 502, 502, 504, 505, 506, 507, 508, 511, 512, 515, 518, 523, 528, 529, 532, 532, 532, 532, 536, 541, 551, 555, 555, 556, 560, 564, 565, 566, 566, 567, 569, 570, 571, 578, 578, 582, 588, 591, 594, 594, 594, 596, 598, 602, 608, 613, 616, 620, 622, 622, 622, 622, 623, 624, 625, 625, 627, 629, 630, 634, 641, 642, 643, 644, 644, 644, 651, 661, 666, 672, 672, 673, 675, 676, 677, 677, 677, 680, 681, 684, 686, 688, 688, 691, 695, 699, 700, 700, 702, 704, 705, 706, 711, 714, 719, 722, 723, 727, 728, 729, 730, 731, 732, 733, 735, 737, 738, 741, 743, 745, 748, 749, 749, 749]}, {"artist": "千代浦蝶美", "song": "Butterfly Dream", "cum": [3, 4, 4, 4, 4, 4, 4, 6, 13, 15, 16, 19, 29, 29, 29, 29, 30, 32, 32, 38, 39, 41, 44, 45, 50, 51, 51, 51, 52, 52, 52, 58, 62, 64, 66, 66, 71, 72, 73, 75, 75, 75, 78, 81, 86, 95, 95, 96, 100, 100, 101, 101, 101, 102, 103, 104, 105, 107, 109, 109, 110, 110, 110, 110, 110, 110, 116, 119, 123, 128, 133, 140, 144, 145, 145, 145, 145, 145, 148, 150, 152, 152, 153, 155, 156, 157, 159, 159, 159, 163, 167, 170, 176, 179, 182, 189, 193, 195, 196, 196, 197, 197, 198, 204, 204, 205, 206, 206, 210, 217, 218, 219, 219, 219, 221, 222, 230, 232, 237, 241, 249, 249, 250, 251, 252, 254, 256, 259, 259, 261, 261, 261, 262, 263, 264, 266, 269, 272, 272, 276, 280, 283, 284, 290, 296, 297, 300, 300, 301, 303, 303, 304, 306, 307, 308, 308, 308, 308, 317, 319, 320, 320, 324, 325, 330, 335, 338, 342, 350, 351, 351, 352, 352, 352, 354, 365, 369, 370, 370, 375, 379, 380, 381, 382, 382, 386, 389, 389, 393, 393, 393, 399, 408, 411, 411, 411, 411, 411, 414, 420, 421, 423, 425, 426, 429, 429, 429, 430, 430, 430, 431, 432, 435, 438, 446, 452, 457, 457, 459, 460, 460, 461, 463, 467, 469, 469, 471, 473, 477, 479, 480, 482, 483, 483, 486, 492, 500, 503, 504, 513, 515, 518, 519, 519, 520, 520, 521, 533, 535, 536, 536, 540, 542, 544, 545, 545, 546, 548, 552, 557, 562, 566, 568, 571, 576, 578, 578, 578, 578, 580, 586, 592, 593, 594, 594, 595, 597, 598, 598, 598, 599, 599, 602, 608, 609, 609, 615, 625, 632, 633, 634, 634, 634, 635, 640, 645, 645, 646, 649, 649, 651, 657, 658, 660, 660, 661, 664, 668, 669, 670, 675, 679, 685, 685, 685, 685, 685, 686]}, {"artist": "月深ツキ", "song": "月祀り", "cum": [0, 0, 0, 0, 0, 0, 0, 0, 0, 0, 0, 0, 0, 0, 0, 0, 0, 0, 0, 0, 0, 0, 0, 34, 52, 56, 57, 58, 60, 60, 61, 67, 67, 67, 72, 75, 77, 78, 80, 80, 80, 81, 83, 84, 85, 87, 91, 92, 117, 119, 122, 122, 123, 123, 124, 125, 125, 126, 128, 129, 133, 134, 135, 135, 135, 136, 137, 139, 141, 145, 146, 148, 170, 171, 171, 171, 172, 172, 172, 172, 173, 173, 174, 176, 180, 182, 182, 182, 182, 182, 183, 188, 188, 188, 189, 193, 205, 205, 207, 207, 208, 211, 214, 216, 217, 217, 221, 224, 229, 231, 233, 233, 234, 234, 234, 234, 238, 238, 239, 241, 251, 253, 253, 254, 254, 255, 258, 260, 262, 262, 264, 267, 268, 268, 268, 271, 273, 273, 274, 274, 278, 280, 282, 285, 303, 304, 305, 305, 305, 306, 306, 306, 311, 312, 314, 316, 318, 319, 321, 321, 322, 322, 322, 323, 326, 327, 329, 332, 346, 352, 352, 353, 353, 354, 357, 362, 364, 364, 364, 364, 364, 364, 364, 364, 367, 367, 367, 374, 376, 377, 379, 382, 400, 401, 401, 404, 404, 406, 410, 412, 412, 412, 412, 412, 413, 414, 415, 415, 415, 416, 416, 418, 420, 422, 423, 423, 440, 440, 440, 440, 440, 444, 444, 446, 446, 446, 449, 452, 453, 453, 453, 454, 454, 455, 455, 457, 460, 463, 463, 467, 479, 483, 483, 484, 486, 490, 492, 494, 497, 497, 497, 499, 502, 502, 502, 502, 502, 502, 502, 502, 504, 508, 511, 512, 523, 525, 525, 525, 525, 530, 534, 538, 539, 539, 540, 540, 543, 548, 548, 548, 549, 549, 550, 551, 551, 554, 554, 556, 574, 580, 580, 581, 582, 583, 584, 586, 588, 591, 592, 592, 593, 594, 594, 594, 594, 595, 595, 596, 596, 598, 601, 601, 609, 609, 613, 613, 616, 616]}, {"artist": "ときのそら", "song": "決意のソラへ", "cum": [1, 3, 3, 3, 4, 5, 9, 11, 13, 13, 14, 14, 17, 18, 19, 19, 19, 19, 21, 22, 23, 26, 26, 29, 30, 30, 31, 31, 32, 34, 37, 41, 47, 48, 51, 51, 52, 52, 52, 54, 55, 55, 56, 57, 58, 60, 62, 64, 65, 66, 66, 66, 68, 70, 72, 76, 81, 81, 83, 83, 84, 85, 85, 85, 85, 85, 86, 87, 87, 91, 93, 97, 98, 98, 98, 98, 100, 102, 104, 109, 109, 109, 111, 113, 116, 117, 119, 119, 119, 119, 121, 122, 123, 125, 126, 127, 127, 128, 128, 128, 129, 130, 135, 140, 141, 144, 147, 147, 148, 149, 149, 149, 151, 154, 154, 155, 157, 159, 160, 162, 162, 163, 163, 163, 165, 167, 168, 171, 172, 175, 177, 179, 180, 182, 184, 185, 185, 185, 186, 187, 188, 192, 192, 196, 196, 198, 198, 198, 199, 201, 202, 204, 207, 207, 207, 209, 209, 211, 213, 213, 213, 216, 218, 221, 221, 221, 224, 225, 227, 228, 228, 228, 230, 233, 239, 245, 247, 248, 250, 250, 252, 252, 252, 252, 252, 252, 254, 256, 260, 264, 265, 266, 266, 267, 267, 267, 268, 270, 272, 282, 284, 284, 284, 284, 286, 286, 288, 288, 289, 289, 291, 292, 293, 294, 296, 298, 299, 299, 299, 300, 300, 302, 302, 312, 314, 315, 318, 318, 320, 321, 323, 323, 323, 323, 326, 326, 329, 331, 333, 336, 338, 338, 339, 339, 341, 343, 344, 351, 355, 355, 357, 360, 360, 360, 361, 361, 361, 361, 363, 363, 364, 366, 366, 368, 368, 368, 369, 369, 371, 372, 376, 386, 390, 391, 391, 391, 394, 396, 397, 397, 397, 397, 399, 400, 400, 401, 402, 404, 405, 406, 406, 407, 408, 410, 411, 413, 414, 415, 422, 425, 425, 425, 425, 425, 426, 427, 428, 428, 430, 430, 433, 438, 438, 439, 439, 439, 439, 440]}, {"artist": "陽月るるふ", "song": "アヲイチズ", "cum": [0, 14, 14, 16, 16, 16, 18, 19, 21, 21, 21, 21, 21, 21, 21, 22, 22, 24, 25, 28, 29, 30, 31, 32, 40, 42, 43, 43, 43, 44, 48, 48, 48, 48, 48, 48, 48, 49, 49, 49, 50, 52, 52, 61, 61, 61, 62, 63, 70, 71, 71, 72, 72, 73, 74, 78, 78, 78, 78, 79, 83, 83, 83, 84, 85, 85, 86, 88, 88, 90, 91, 96, 101, 106, 107, 108, 110, 110, 110, 112, 113, 113, 113, 113, 115, 115, 115, 117, 118, 118, 118, 119, 119, 120, 124, 126, 131, 134, 135, 135, 136, 138, 140, 141, 143, 143, 145, 145, 150, 150, 150, 151, 151, 151, 151, 151, 151, 151, 154, 156, 161, 161, 163, 164, 164, 164, 164, 166, 169, 169, 169, 173, 175, 175, 177, 177, 177, 177, 179, 179, 179, 179, 183, 184, 186, 188, 189, 190, 191, 192, 192, 194, 195, 196, 197, 198, 198, 202, 203, 203, 204, 204, 205, 206, 206, 209, 214, 216, 220, 226, 226, 226, 226, 226, 228, 229, 232, 234, 234, 235, 236, 236, 236, 236, 236, 239, 239, 239, 239, 244, 252, 254, 261, 263, 263, 265, 266, 268, 269, 270, 270, 270, 270, 271, 272, 272, 273, 273, 273, 275, 276, 277, 278, 280, 282, 284, 287, 292, 293, 294, 295, 296, 298, 299, 300, 302, 303, 303, 304, 304, 304, 304, 305, 307, 307, 311, 312, 313, 314, 314, 319, 319, 321, 321, 323, 324, 324, 328, 333, 333, 334, 334, 336, 336, 336, 336, 337, 338, 338, 339, 339, 341, 344, 345, 347, 347, 350, 352, 352, 354, 354, 355, 358, 359, 360, 360, 362, 364, 364, 364, 364, 364, 364, 365, 366, 369, 372, 375, 376, 376, 377, 379, 381, 385, 385, 386, 387, 388, 388, 389, 391, 393, 394, 399, 399, 399, 400, 400, 401, 403, 406, 407, 412, 416, 417, 417, 418, 420]}, {"artist": "LiLiN", "song": "readiness", "cum": [0, 0, 0, 0, 0, 0, 0, 0, 0, 0, 0, 0, 0, 0, 0, 0, 0, 0, 0, 0, 0, 1, 4, 6, 6, 6, 9, 9, 9, 9, 12, 12, 12, 12, 12, 12, 13, 14, 15, 15, 15, 15, 17, 19, 19, 19, 20, 20, 20, 21, 21, 21, 21, 21, 24, 26, 27, 27, 27, 27, 28, 28, 29, 29, 29, 29, 29, 29, 29, 30, 32, 39, 40, 40, 40, 40, 40, 41, 44, 44, 44, 44, 44, 44, 46, 46, 47, 47, 47, 47, 47, 47, 47, 47, 47, 50, 51, 53, 53, 53, 53, 53, 56, 56, 57, 60, 63, 63, 67, 67, 67, 67, 67, 67, 70, 70, 72, 73, 76, 79, 79, 86, 86, 86, 86, 86, 88, 89, 90, 92, 98, 101, 104, 105, 105, 105, 105, 105, 106, 106, 113, 120, 121, 126, 126, 129, 129, 129, 129, 129, 130, 133, 133, 133, 133, 133, 134, 136, 139, 140, 140, 143, 143, 147, 151, 152, 153, 160, 160, 162, 163, 163, 163, 163, 166, 166, 167, 167, 167, 167, 170, 170, 170, 170, 170, 170, 174, 177, 177, 177, 178, 179, 179, 182, 182, 182, 182, 184, 185, 185, 187, 187, 187, 187, 188, 188, 193, 194, 197, 201, 203, 205, 206, 207, 209, 211, 211, 216, 216, 216, 216, 216, 219, 220, 220, 221, 221, 222, 225, 227, 229, 231, 235, 236, 237, 238, 241, 246, 251, 259, 264, 270, 270, 270, 270, 270, 273, 274, 276, 278, 278, 285, 287, 289, 289, 291, 293, 293, 294, 294, 294, 297, 298, 311, 315, 316, 316, 316, 316, 316, 317, 318, 320, 321, 321, 321, 322, 322, 324, 330, 333, 337, 338, 338, 342, 343, 352, 359, 364, 365, 365, 365, 365, 365, 368, 368, 368, 369, 369, 372, 376, 380, 386, 386, 389, 389, 390, 390, 397, 400, 405, 406, 411, 413, 413, 413, 413, 413]}], "days": ["9/28", "9/29", "9/30", "10/1", "10/2", "10/3", "10/4", "10/5", "10/6", "10/7", "10/8", "10/9", "10/10", "10/11"], "table": [{"rank": 1, "artist": "wouca", "song": "Romantica", "total": 1191, "days": [83, 90, 81, 82, 73, 71, 96, 106, 91, 86, 113, 100, 100, 19]}, {"rank": 2, "artist": "メラ・アカル", "song": "僕とあなたと", "total": 1030, "days": [55, 58, 63, 81, 93, 87, 83, 88, 86, 87, 84, 71, 88, 6]}, {"rank": 3, "artist": "Palette Project", "song": "ギミラビ", "total": 749, "days": [62, 61, 50, 50, 58, 55, 52, 69, 66, 59, 52, 57, 50, 8]}, {"rank": 4, "artist": "千代浦蝶美", "song": "Butterfly Dream", "total": 686, "days": [45, 51, 44, 49, 52, 49, 52, 57, 53, 61, 58, 54, 54, 7]}, {"rank": 5, "artist": "月深ツキ", "song": "月祀り", "total": 616, "days": [34, 58, 56, 45, 48, 44, 47, 50, 41, 44, 45, 44, 45, 15]}, {"rank": 6, "artist": "ときのそら", "song": "決意のソラへ", "total": 440, "days": [29, 35, 33, 30, 35, 34, 29, 41, 32, 38, 32, 36, 34, 2]}, {"rank": 7, "artist": "陽月るるふ", "song": "アヲイチズ", "total": 420, "days": [32, 31, 33, 30, 30, 28, 32, 38, 30, 30, 31, 30, 32, 13]}, {"rank": 8, "artist": "LiLiN", "song": "readiness", "total": 413, "days": [6, 14, 19, 11, 29, 47, 34, 19, 32, 48, 52, 48, 47, 7]}, {"rank": 9, "artist": "我部りえる", "song": "きみはわたしの", "total": 366, "days": [16, 18, 30, 29, 28, 35, 23, 29, 28, 30, 34, 34, 30, 2]}, {"rank": 10, "artist": "凪乃ましろ", "song": "波音のプレリュード", "total": 353, "days": [32, 26, 23, 21, 25, 27, 19, 30, 28, 35, 27, 28, 27, 5]}, {"rank": 11, "artist": "すとらてぃあ", "song": "Last Tear", "total": 308, "days": [17, 28, 28, 21, 22, 19, 19, 30, 29, 26, 19, 25, 20, 5]}, {"rank": 12, "artist": "ふぇりしあ", "song": "押し花に、愛を込めて", "total": 252, "days": [10, 28, 17, 26, 14, 26, 24, 25, 21, 12, 15, 12, 18, 4]}, {"rank": 13, "artist": "夢羽ヒメ", "song": "彩光 -イリザシオン-", "total": 231, "days": [20, 21, 19, 21, 15, 18, 15, 22, 14, 16, 16, 16, 15, 3]}, {"rank": 14, "artist": "茜音カンナ", "song": "VEIL", "total": 225, "days": [32, 26, 18, 12, 13, 11, 10, 18, 18, 18, 16, 18, 13, 2]}, {"rank": 15, "artist": "みかん先生", "song": "as ü like", "total": 217, "days": [3, 20, 21, 22, 22, 17, 15, 16, 19, 15, 16, 15, 14, 2]}, {"rank": 16, "artist": "ヨノ", "song": "Notes of Color", "total": 210, "days": [18, 26, 22, 19, 16, 17, 17, 11, 16, 13, 12, 10, 10, 3]}, {"rank": 17, "artist": "MEDA", "song": "覚醒.exe", "total": 186, "days": [7, 15, 17, 17, 15, 14, 14, 14, 16, 15, 11, 15, 16, 0]}, {"rank": 18, "artist": "藍海のん、奏みみ", "song": "その手を引いて、その手に引かれて", "total": 176, "days": [0, 5, 13, 15, 17, 18, 14, 17, 14, 15, 11, 16, 16, 5]}, {"rank": 19, "artist": "朝ノ瑠璃", "song": "トモシビライズ", "total": 171, "days": [13, 16, 14, 14, 11, 13, 11, 13, 14, 13, 14, 12, 11, 2]}, {"rank": 20, "artist": "えのぐ", "song": "決戦前夜", "total": 148, "days": [13, 12, 15, 10, 12, 7, 12, 12, 12, 8, 13, 12, 9, 1]}], "asOf": "10/11 05:51", "counted": 11266, "songs": 155, "theme": "歌始まり！！", "deadline": "10/27 23:59"};
 const COLORS = ["--s1","--s2","--s3","--s4","--s5","--s6","--s7","--s8"].map(v => `var(${v})`);
 const $ = id => document.getElementById(id);
 const esc = s => String(s).replace(/[&<>"]/g, c => ({"&":"&amp;","<":"&lt;",">":"&gt;",'"':"&quot;"}[c]));
